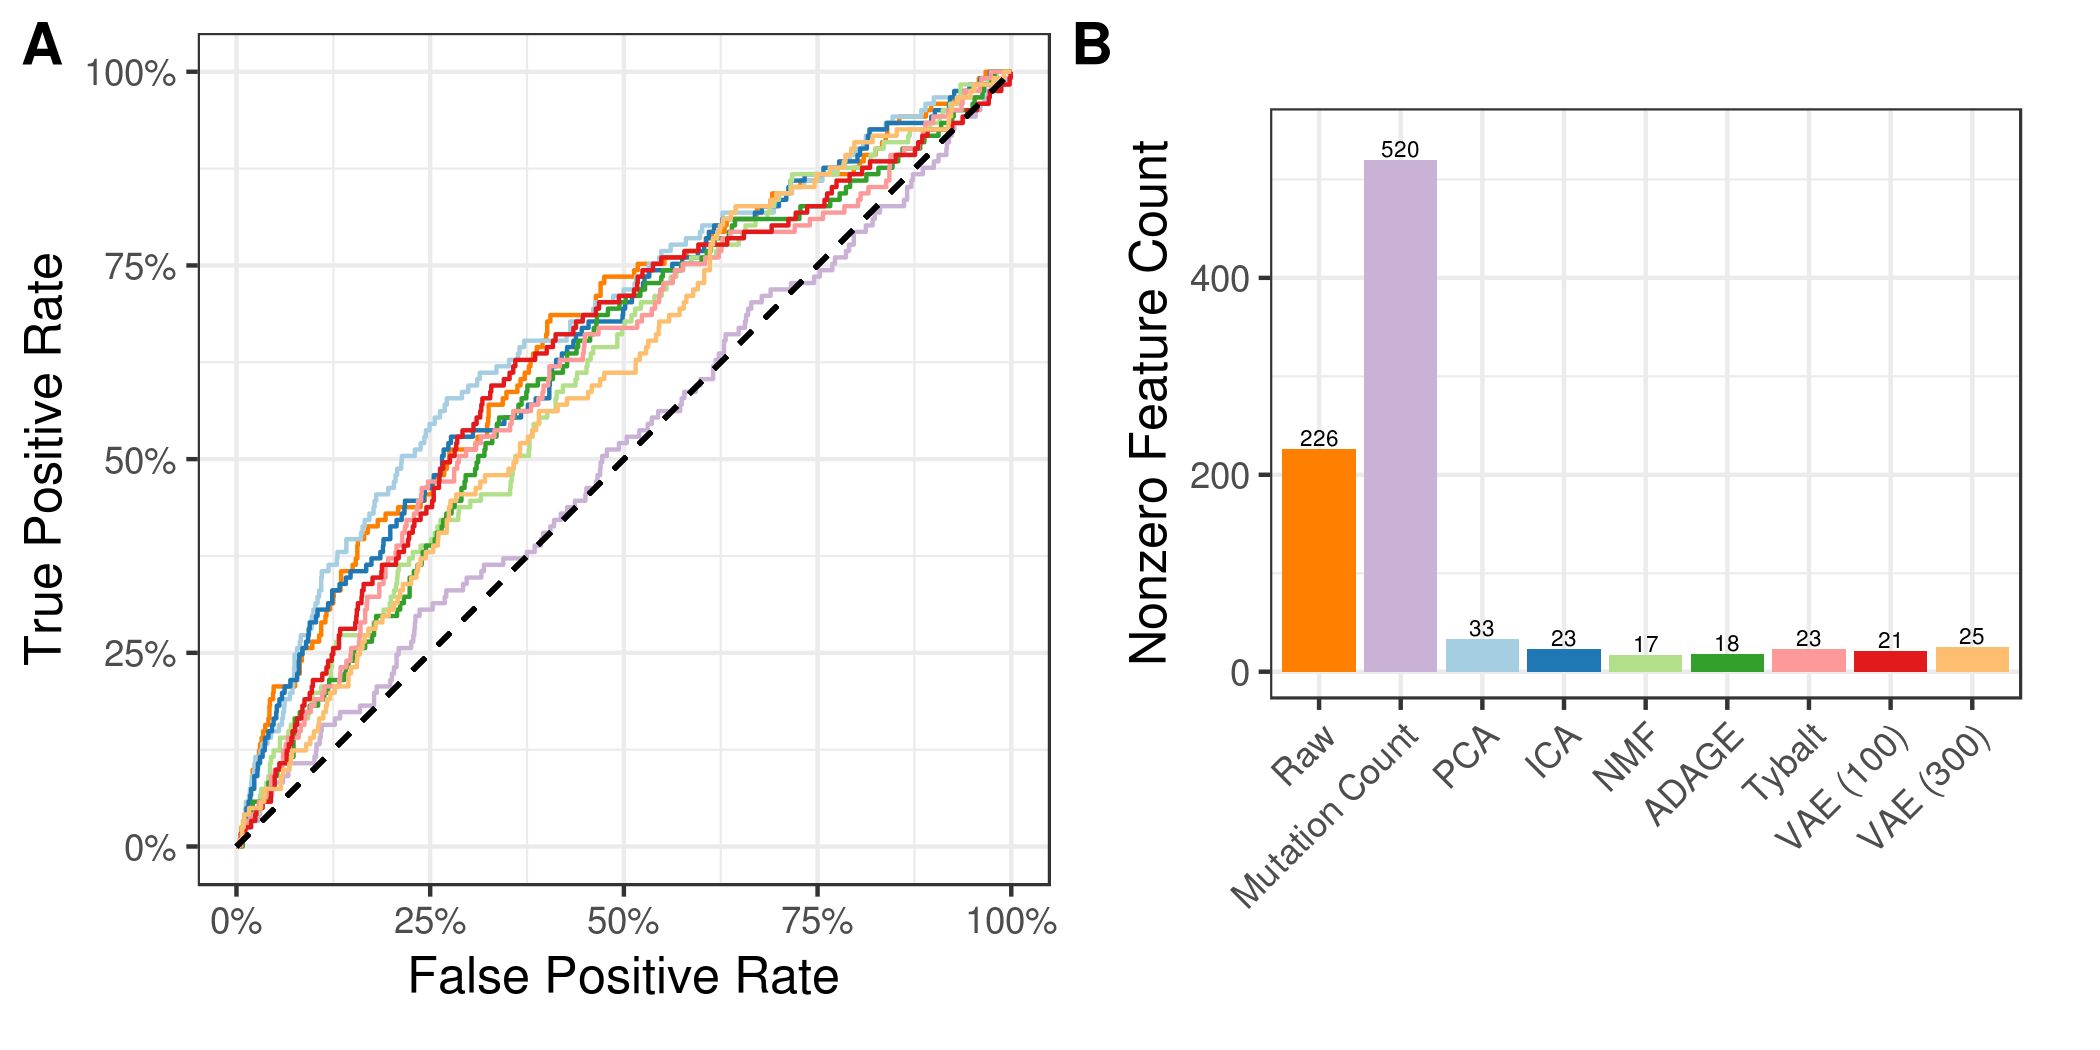
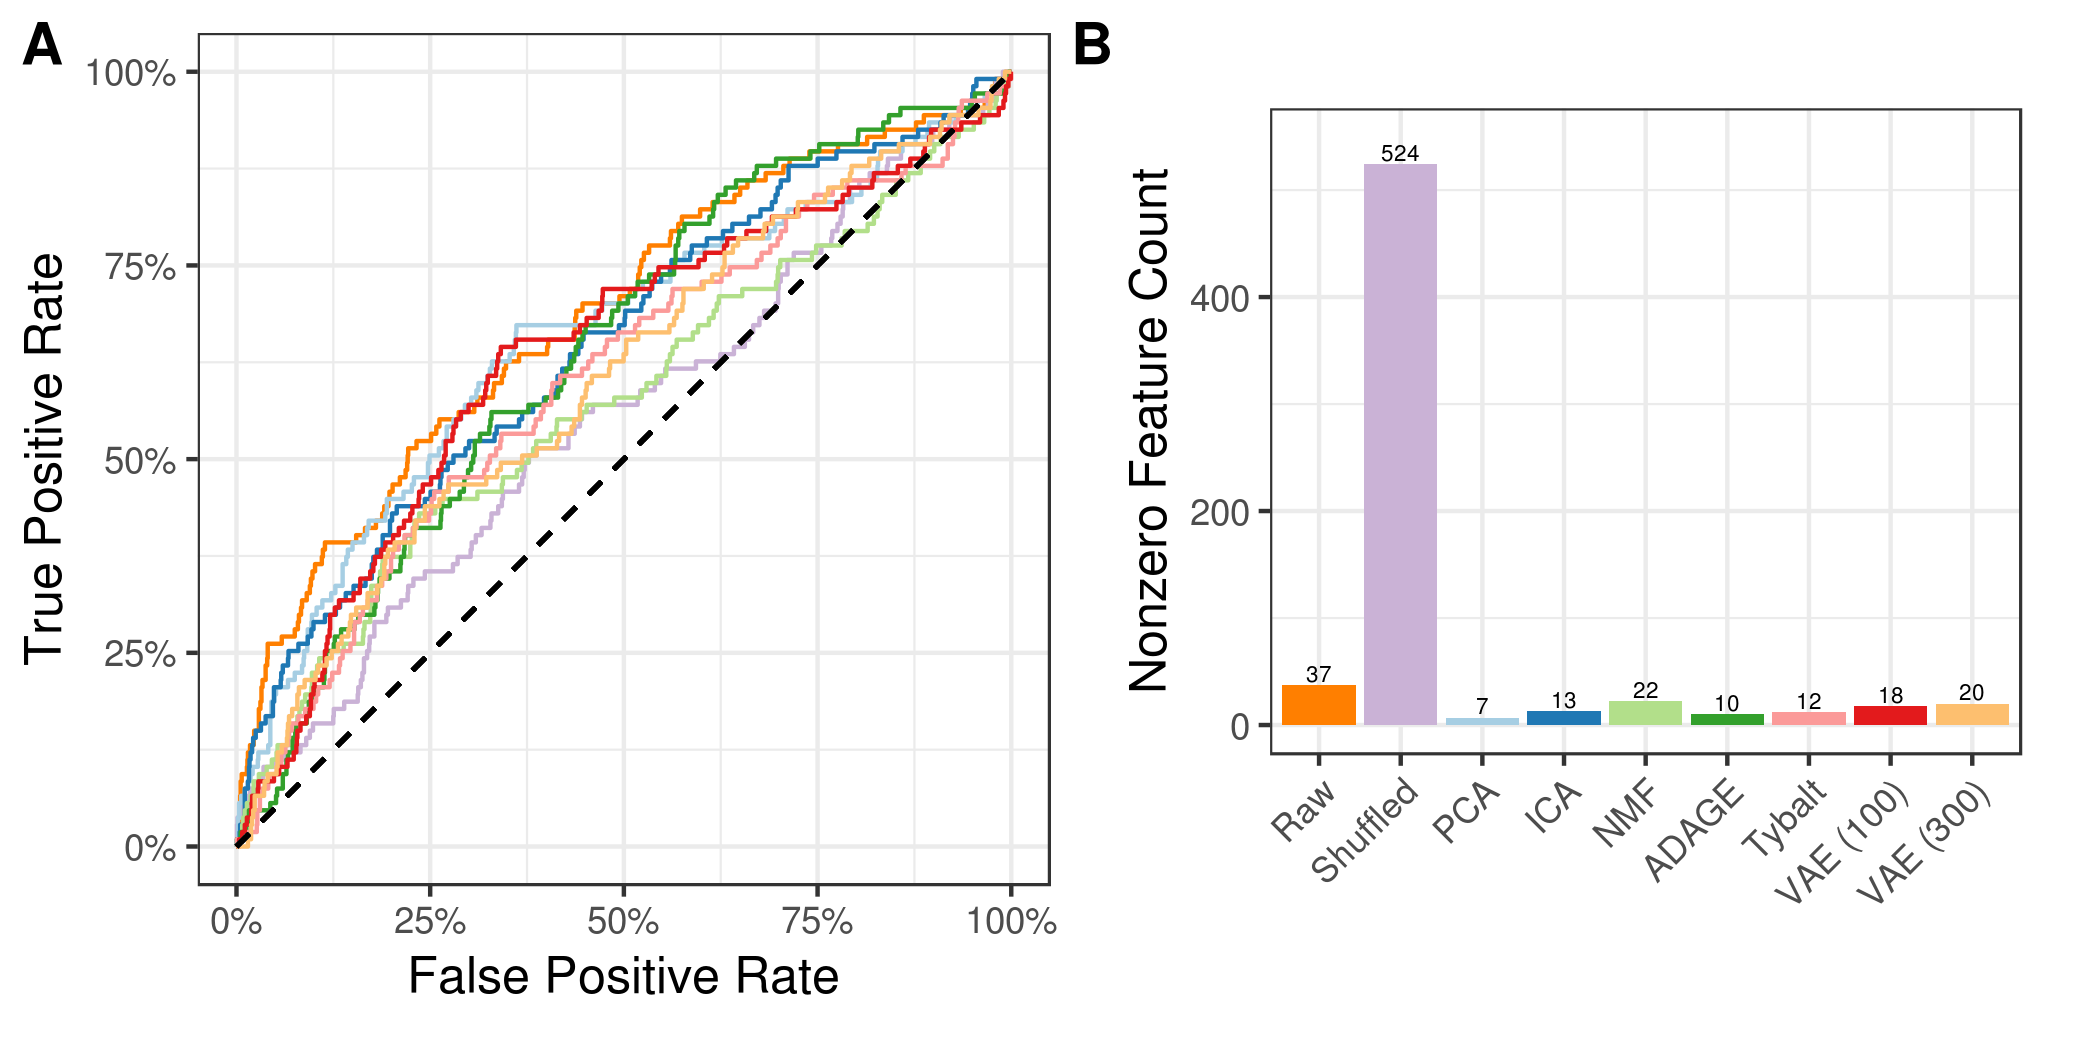
Updating Feature Comparison (Part IB) (#58)
* change label of mutation count to shuffled

this is more accurate

* update plot with full status feature matrix

* add publicly available copy number data

* add diseases to nf1 feature comparison

full status matrix makes this necessary

Changed region(s): [[0.5262, 0.1219, 0.9595, 0.8533], [0.0929, 0.061, 0.4952, 0.7924], [0.65, 0.1219, 0.681, 0.1829]]

diff --git a/scripts/pancancer_classifier.py b/scripts/pancancer_classifier.py
@@ -186,7 +186,13 @@ if y_matrix == 'default':
     mut_file = os.path.join('data', 'pancan_mutation_freeze.tsv')
     mut_burden_file = os.path.join('data', 'mutation_burden_freeze.tsv')
 elif y_matrix == 'xena':
-    mut_file = 'https://github.com/greenelab/tybalt/raw/928804ffd3bb3f9d5559796b2221500c303ed92c/data/pancan_mutation.tsv.gz'
+    # Copy number data combined in the `status_matrix.tsv.gz`
+    if copy_number:
+        mut_file = 'https://github.com/greenelab/tybalt/raw/7d2854172b57efc4b92ca80d3ec86dfbbc3e4325/data/status_matrix.tsv.gz'
+        copy_number = False
+    else:
+        mut_file = 'https://github.com/greenelab/tybalt/raw/928804ffd3bb3f9d5559796b2221500c303ed92c/data/pancan_mutation.tsv.gz'
+
     mut_burden_file = 'https://github.com/greenelab/tybalt/raw/87496e23447a06904bf9c07c389584147b87bd65/data/pancan_mutation_burden.tsv'
 
 sample_freeze_file = os.path.join('data', 'sample_freeze.tsv')
